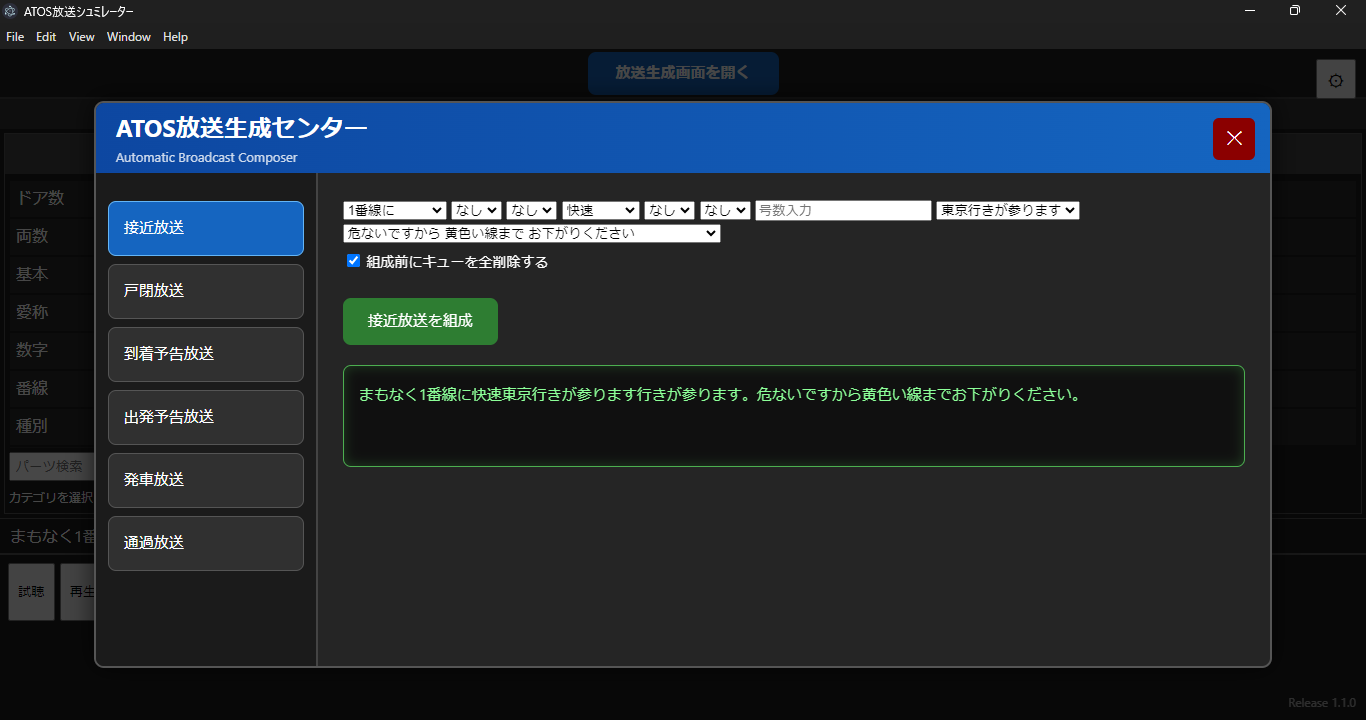
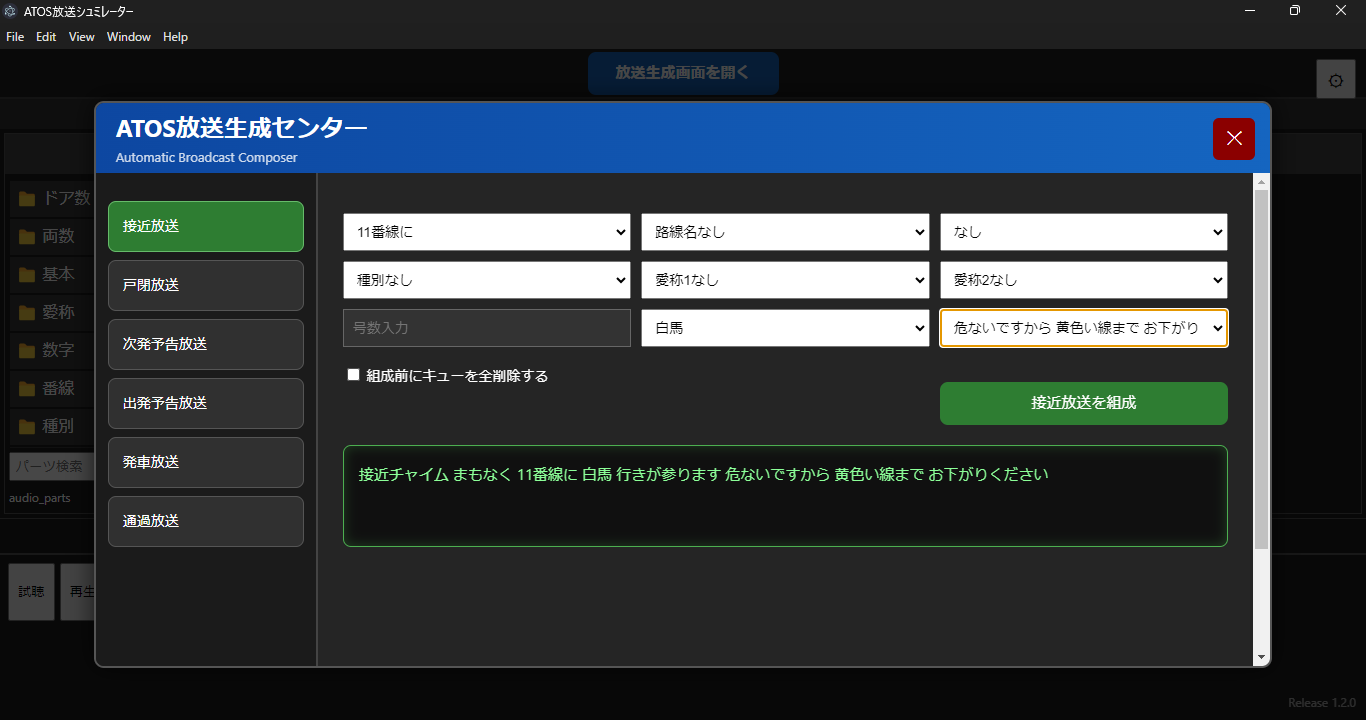
Update 3 files

diff --git a/index.html b/index.html
@@ -21,12 +21,12 @@
                 <div id="subTitle1">ATOS放送を、より自由に、より精密に。</div>
                 <div id="subTitle2">接近放送・発車放送・編集・出力をこの一本に。</div>
                 <div id="subTitle3">阪和線委員会制作 JR放送再現ソフト</div>
-                <div id="versionTag">Release 1.1.0 / 新機能</div>
+                <div id="versionTag">Release 1.2.0 / 新機能</div>
             </div>
         </header>
         <div id="tickerWrap">
             <div id="tickerText">
-                ATOS放送シュミレーター Release 1.1.0 公開中 ｜ JR東日本型自動放送編集ソフト ｜ Desktop
+                ATOS放送シュミレーター Release 1.2.0 公開中 ｜ JR東日本型自動放送編集ソフト ｜ Desktop
                 Edition Official Distribution Page
             </div>
         </div>
@@ -39,7 +39,7 @@
             <div class="sectionBody">
                 <p>
                     ATOS放送シュミレーターは、JR東日本型ATOS自動放送の音声パーツを自由に組み合わせ、
-                    接近放送・発車放送・案内放送などを高精度に再現・編集・出力できる
+                    接近放送・次発予告放送などを高精度に再現・編集・出力できる
                     デスクトップ専用放送再現ソフトです。
                 </p>
 
@@ -55,14 +55,11 @@
          修正内容
     ========================== -->
         <section class="infoSection">
-            <div class="sectionTitle">RELEASE 1.1.0 PATCH NOTES</div>
+            <div class="sectionTitle">RELEASE 1.2.0 PATCH NOTES</div>
             <div class="sectionBody">
                 <ul class="patchList">
-                    <li>放送生成画面を追加</li>
-                    <li>接近放送以外の放送関連のタブを追加</li>
-                    <li>戸閉放送生成を追加</li>
-                    <li>生成文章プレビュー機能</li>
-                    <li>メイン画面の微調整</li>
+                    <li>WAV生成不具合の修正</li>
+                    <li>次発予告放送生成を追加</li>
                     <li>一部機能の修正</li>
                 </ul>
             </div>
@@ -123,6 +120,7 @@
             <div class="sectionTitle">UPDATE HISTORY</div>
             <div class="sectionBody">
                 <ul class="patchList">
+                    <li>Release 1.2.0 - 新機能公開</li>
                     <li>Release 1.1.0 - 新機能公開</li>
                     <li>Release 1.0.1 - 修正パッチ公開</li>
                     <li>Release 1.0.0 - Desktop Edition 初版公開</li>

diff --git a/download.html b/download.html
@@ -24,7 +24,7 @@
     </header>
     <div id="tickerWrap">
     <div id="tickerText">
-        ATOS放送シュミレーター Release 1.0.1 公開中　｜　JR東日本型自動放送編集ソフト　｜　Desktop Edition Official Distribution Page
+        ATOS放送シュミレーター Release 1.2.0 公開中　｜　JR東日本型自動放送編集ソフト　｜　Desktop Edition Official Distribution Page
     </div>
 </div>
 
@@ -38,8 +38,18 @@
             <div id="downloadWrap">
                 
                 <div class="downloadCard">
-                    <div class="downloadTitle">リリース版 Release 1.1.0</div>
+                    <div class="downloadTitle">リリース版 Release 1.2.0</div>
                     <div class="downloadSub">新機能 / 現在の推奨版</div>
+                    <div class="downloadInfo">公開日：2026年5月30日</div>
+                    <div class="downloadInfo">内容：新機能追加・一部不具合修正</div>
+                    <a href="https://github.com/miyachifumito/ATOS-Editor/releases/download/Release-1.2.0/ATOSBroadcastSimulater.Release-1.2.0.exe" class="downloadBtn">
+                        ダウンロード
+                    </a>
+                </div>
+
+                <div class="downloadCard">
+                    <div class="downloadTitle">リリース版 Release 1.1.0</div>
+                    <div class="downloadSub">リリース版</div>
                     <div class="downloadInfo">公開日：2026年5月2日</div>
                     <div class="downloadInfo">内容：新機能追加・一部不具合修正</div>
                     <a href="https://github.com/miyachifumito/ATOS-Editor/releases/download/Release-1.1.0/ATOSBroadcastSimulater.Release-1.1.0.exe" class="downloadBtn">
@@ -91,7 +101,7 @@
             <ul class="patchList">
                 <li>Windows専用ソフトです</li>
                 <li>初回起動時にセキュリティ警告が表示される場合があります</li>
-                <li>最新版 Release 1.1.0 の使用を推奨します</li>
+                <li>最新版 Release 1.2.0 の使用を推奨します</li>
                 <li>旧版・ベータ版の使用は自己責任でお願いします</li>
             </ul>
         </div>
